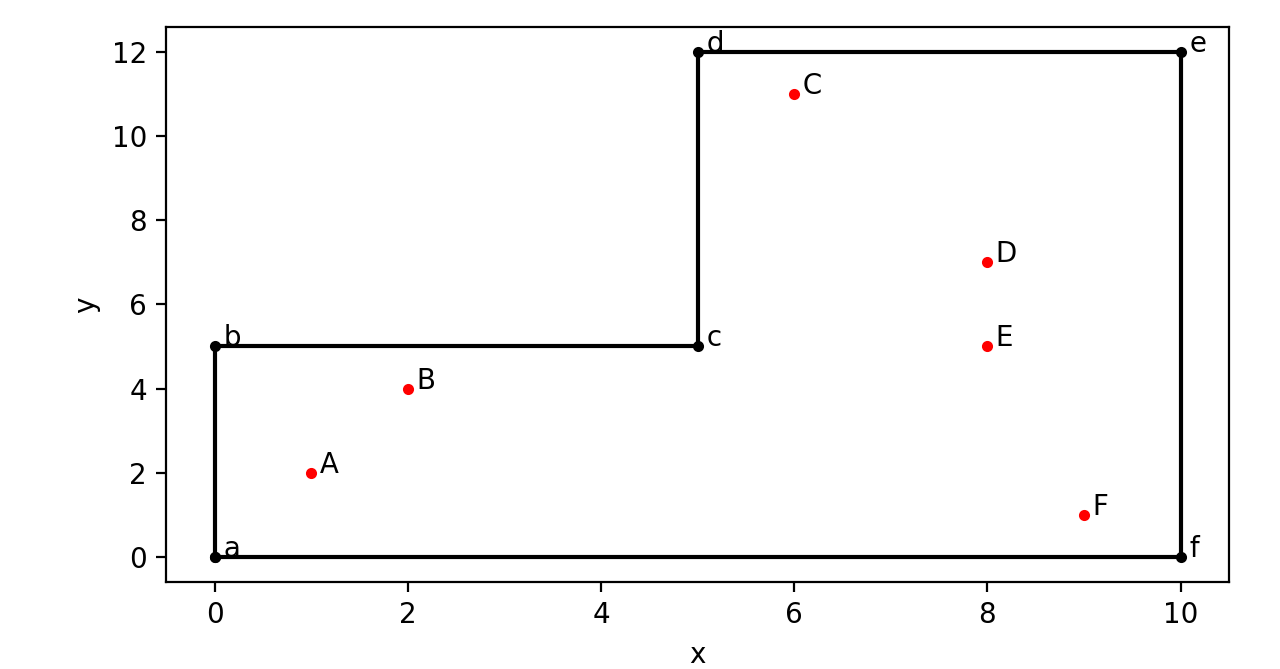
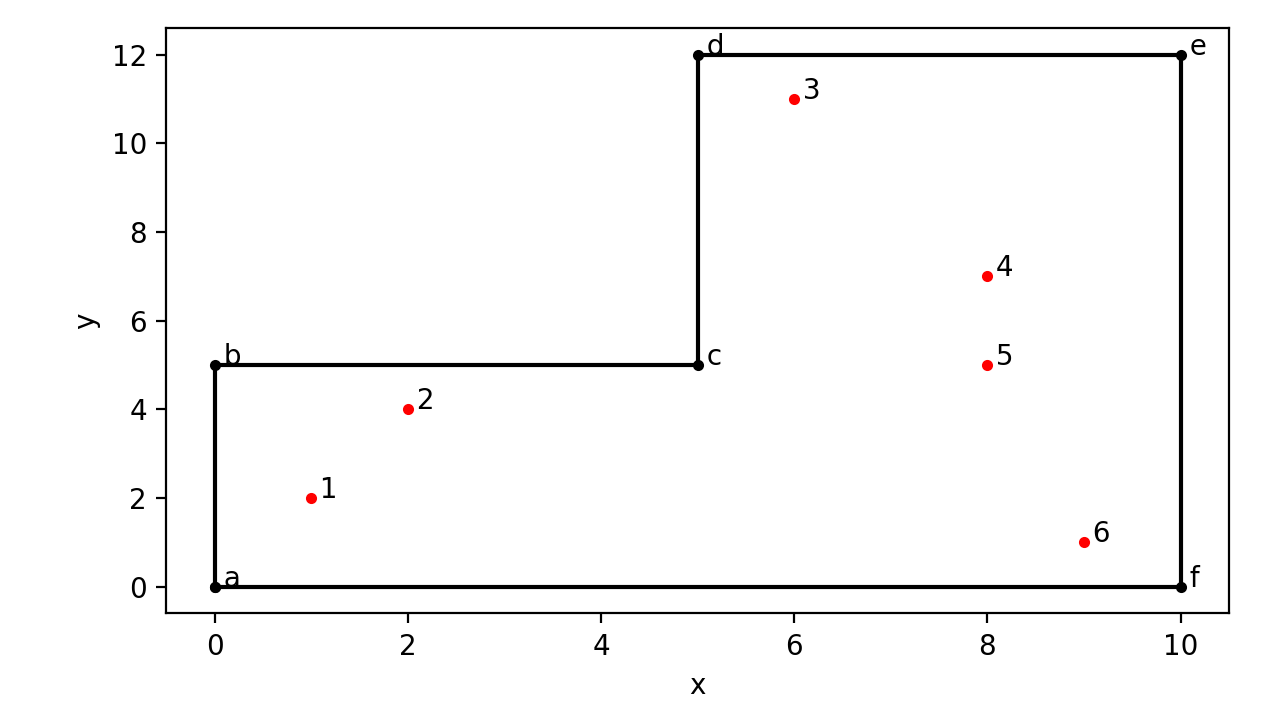
correções

diff --git a/index.py b/index.py
@@ -6,7 +6,7 @@ import shapely.geometry as shapgeo
 #METODOS
 
 def getDistancias (locais, terreno) :
-    dist = 0
+    dist, soma = 0, 0
     rota = False
     distancias = dict()
     for k1 in locais:
@@ -14,16 +14,19 @@ def getDistancias (locais, terreno) :
         for k2 in locais:
             if k1 != k2 : #teste pra nao calcular distancia tipo AA
                 if (k2 + k1) not in distancias : # dist AB = dist BA logo pula a iteração
-                    if isRota(locais, terreno, rota, k1, k2): #testar possibilidade de rota
-                        x2, y2 = locais[k2]
-                        dist = math.sqrt((x1-x2)**2 + (y1-y2)**2)
-                        distancias[k1 + k2] = dist
-                    else:
-                        x2, y2 = locais[k2]
-                        dist = math.sqrt((x1-x2)**2 + (y1-y2)**2)
-                        distancias[k1 + k2] = dist*(10**6) #caso a rota seja False multiplicará por um fator alto
+                    x2, y2 = locais[k2]
+                    dist = math.sqrt((x1-x2)**2 + (y1-y2)**2)
+                    distancias[k1 + k2] = dist
+                    soma += dist
                 else:
+                    soma += dist
                     pass
+    for k1 in locais:
+        for k2 in locais:
+            if k1 != k2 : #teste pra nao calcular distancia tipo AA
+                if (k2 + k1) not in distancias : # dist AB = dist BA logo pula a iteração
+                    if not(isRota(locais, terreno, rota, k1, k2)): #testar possibilidade de rota
+                        distancias[k1 + k2] += 10*soma
     return distancias
 
 def setPontos (fname) :
@@ -31,7 +34,7 @@ def setPontos (fname) :
     fhand = open(fname) #ler arquivo
     for line in fhand: 
         line = line.rstrip()
-        chave = re.findall('^[(A-Za-z)]', line) #get key
+        chave = re.findall('^[(A-Za-z0-9)]', line) #get key
         x = re.findall('([0-9]+),', line) #get a from a, b
         y = re.findall(',([0-9]+)', line) #get b from a, b
         pontos[chave[0]] = float(x[0]), float(y[0]) #atribui novo par {key: a, b} ao dicio pontos
@@ -58,19 +61,19 @@ def isRota (locais, terreno, rota, k1, k2) :
 def writeCusto (locais, distancia):
     file = open('custos.txt', 'w')
     linhat, cabecalho, linha, pontos  = '', '', '', ''
-    linha = 'data; \nparam n :=8; #numero de cidades \n\n'
+    linha = 'data; \nparam n :=' + str(len(locais)) + '; #numero de cidades \n\n'
     file.write(linha)
     for ponto in locais:
         pontos = pontos + ' ' + ponto
     linha = 'set I:=' + pontos + '; #cidades de \nset J:=' + pontos + '; #cidades para \n\n#Matriz de Custos:\n'
     file.write(linha)
-    cabecalho = 'param C: \t'
+    cabecalho = 'param C:'
     for local in locais:
         cabecalho = cabecalho + '     ' + local
     file.write(cabecalho + ':=')
     for k1 in locais:
         linhat = ''
-        linhat = '\n\t\t\t' + linhat + k1 + '  '
+        linhat = '\n\t\t' + linhat + k1 + '  '
         for k2 in locais:
             if k1 != k2:
                 if (k2 + k1) not in distancia :
@@ -78,10 +81,10 @@ def writeCusto (locais, distancia):
                 else:
                     linhat = linhat + ' ' + str(round(distancia[k2+k1], 2)) + ' '
             else:
-                linhat = linhat + ' - '
+                linhat = linhat + ' 0 '
         linhat = linhat
-        file.write(linhat + " \r")
-    file.write('end;')
+        file.write(linhat)
+    file.write(';\n end;')
     file.close()
     return file
 #MAIN

diff --git a/README.md b/README.md
@@ -1,4 +1,4 @@
-Nome do projeto: Problema do Caixeiro Viajante com Restrição de Área;
-Nome do desenvolvedor: Israel Siqueira;
-Email: jrmeds@gmail.com;
-Descrição: código referente ao projeto de TCC do autor ;
+Nome do projeto: Problema do Caixeiro Viajante com Restrição de Área \n
+Nome do desenvolvedor: Israel Siqueira \n
+Email: jrmeds@gmail.com \n
+Descrição: código referente ao projeto de TCC do autor \n
